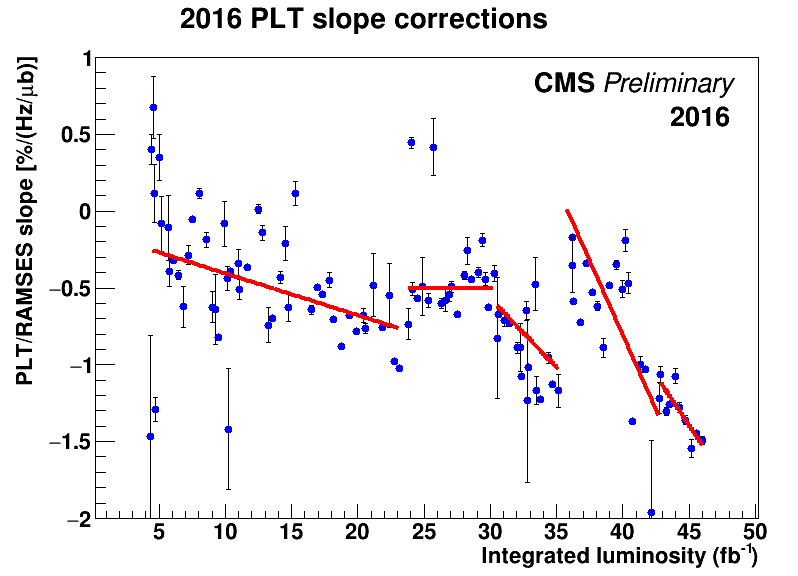
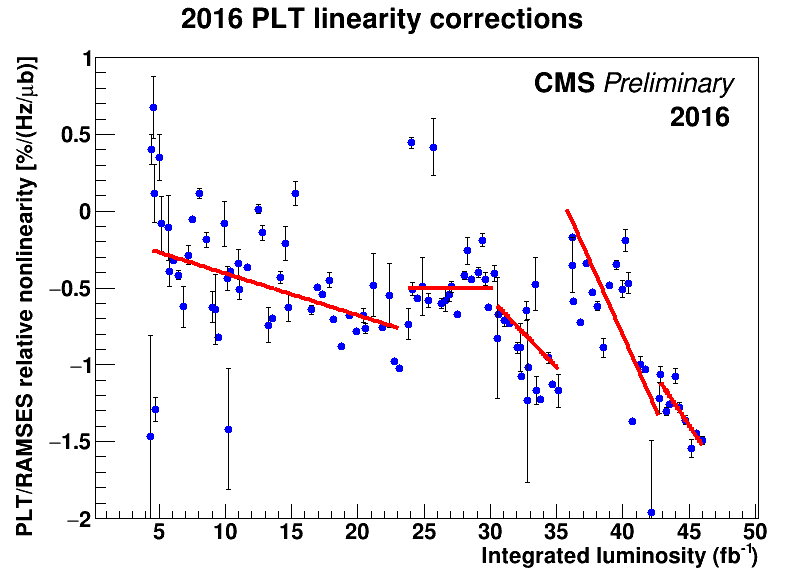
update "slope" to "nonlinearity" in Fig. 26

Changed region(s): [[0.0, 0.2188, 0.0602, 0.9375], [0.391, 0.0, 0.7519, 0.0625], [0.2406, 0.0, 0.3609, 0.0625]]

diff --git a/PLTRamsesComparison/PlotRAMSESCorrectionsPaper.C b/PLTRamsesComparison/PlotRAMSESCorrectionsPaper.C
@@ -129,9 +129,9 @@ void PlotRAMSESCorrectionsPaper(void) {
 
   TCanvas *c1 = new TCanvas("c1", "c1", 800, 600);
   gslope->Draw("AP");
-  gslope->SetTitle("2016 PLT slope corrections");
+  gslope->SetTitle("2016 PLT linearity corrections");
   gslope->GetXaxis()->SetTitle("Integrated luminosity (fb^{-1})");
-  gslope->GetYaxis()->SetTitle("PLT/RAMSES slope [%/(Hz/#mub)]");
+  gslope->GetYaxis()->SetTitle("PLT/RAMSES relative nonlinearity [%/(Hz/#mub)]");
   gslope->SetMarkerStyle(kFullCircle);
   gslope->SetMarkerColor(kBlue);
   gslope->SetMarkerSize(1);
